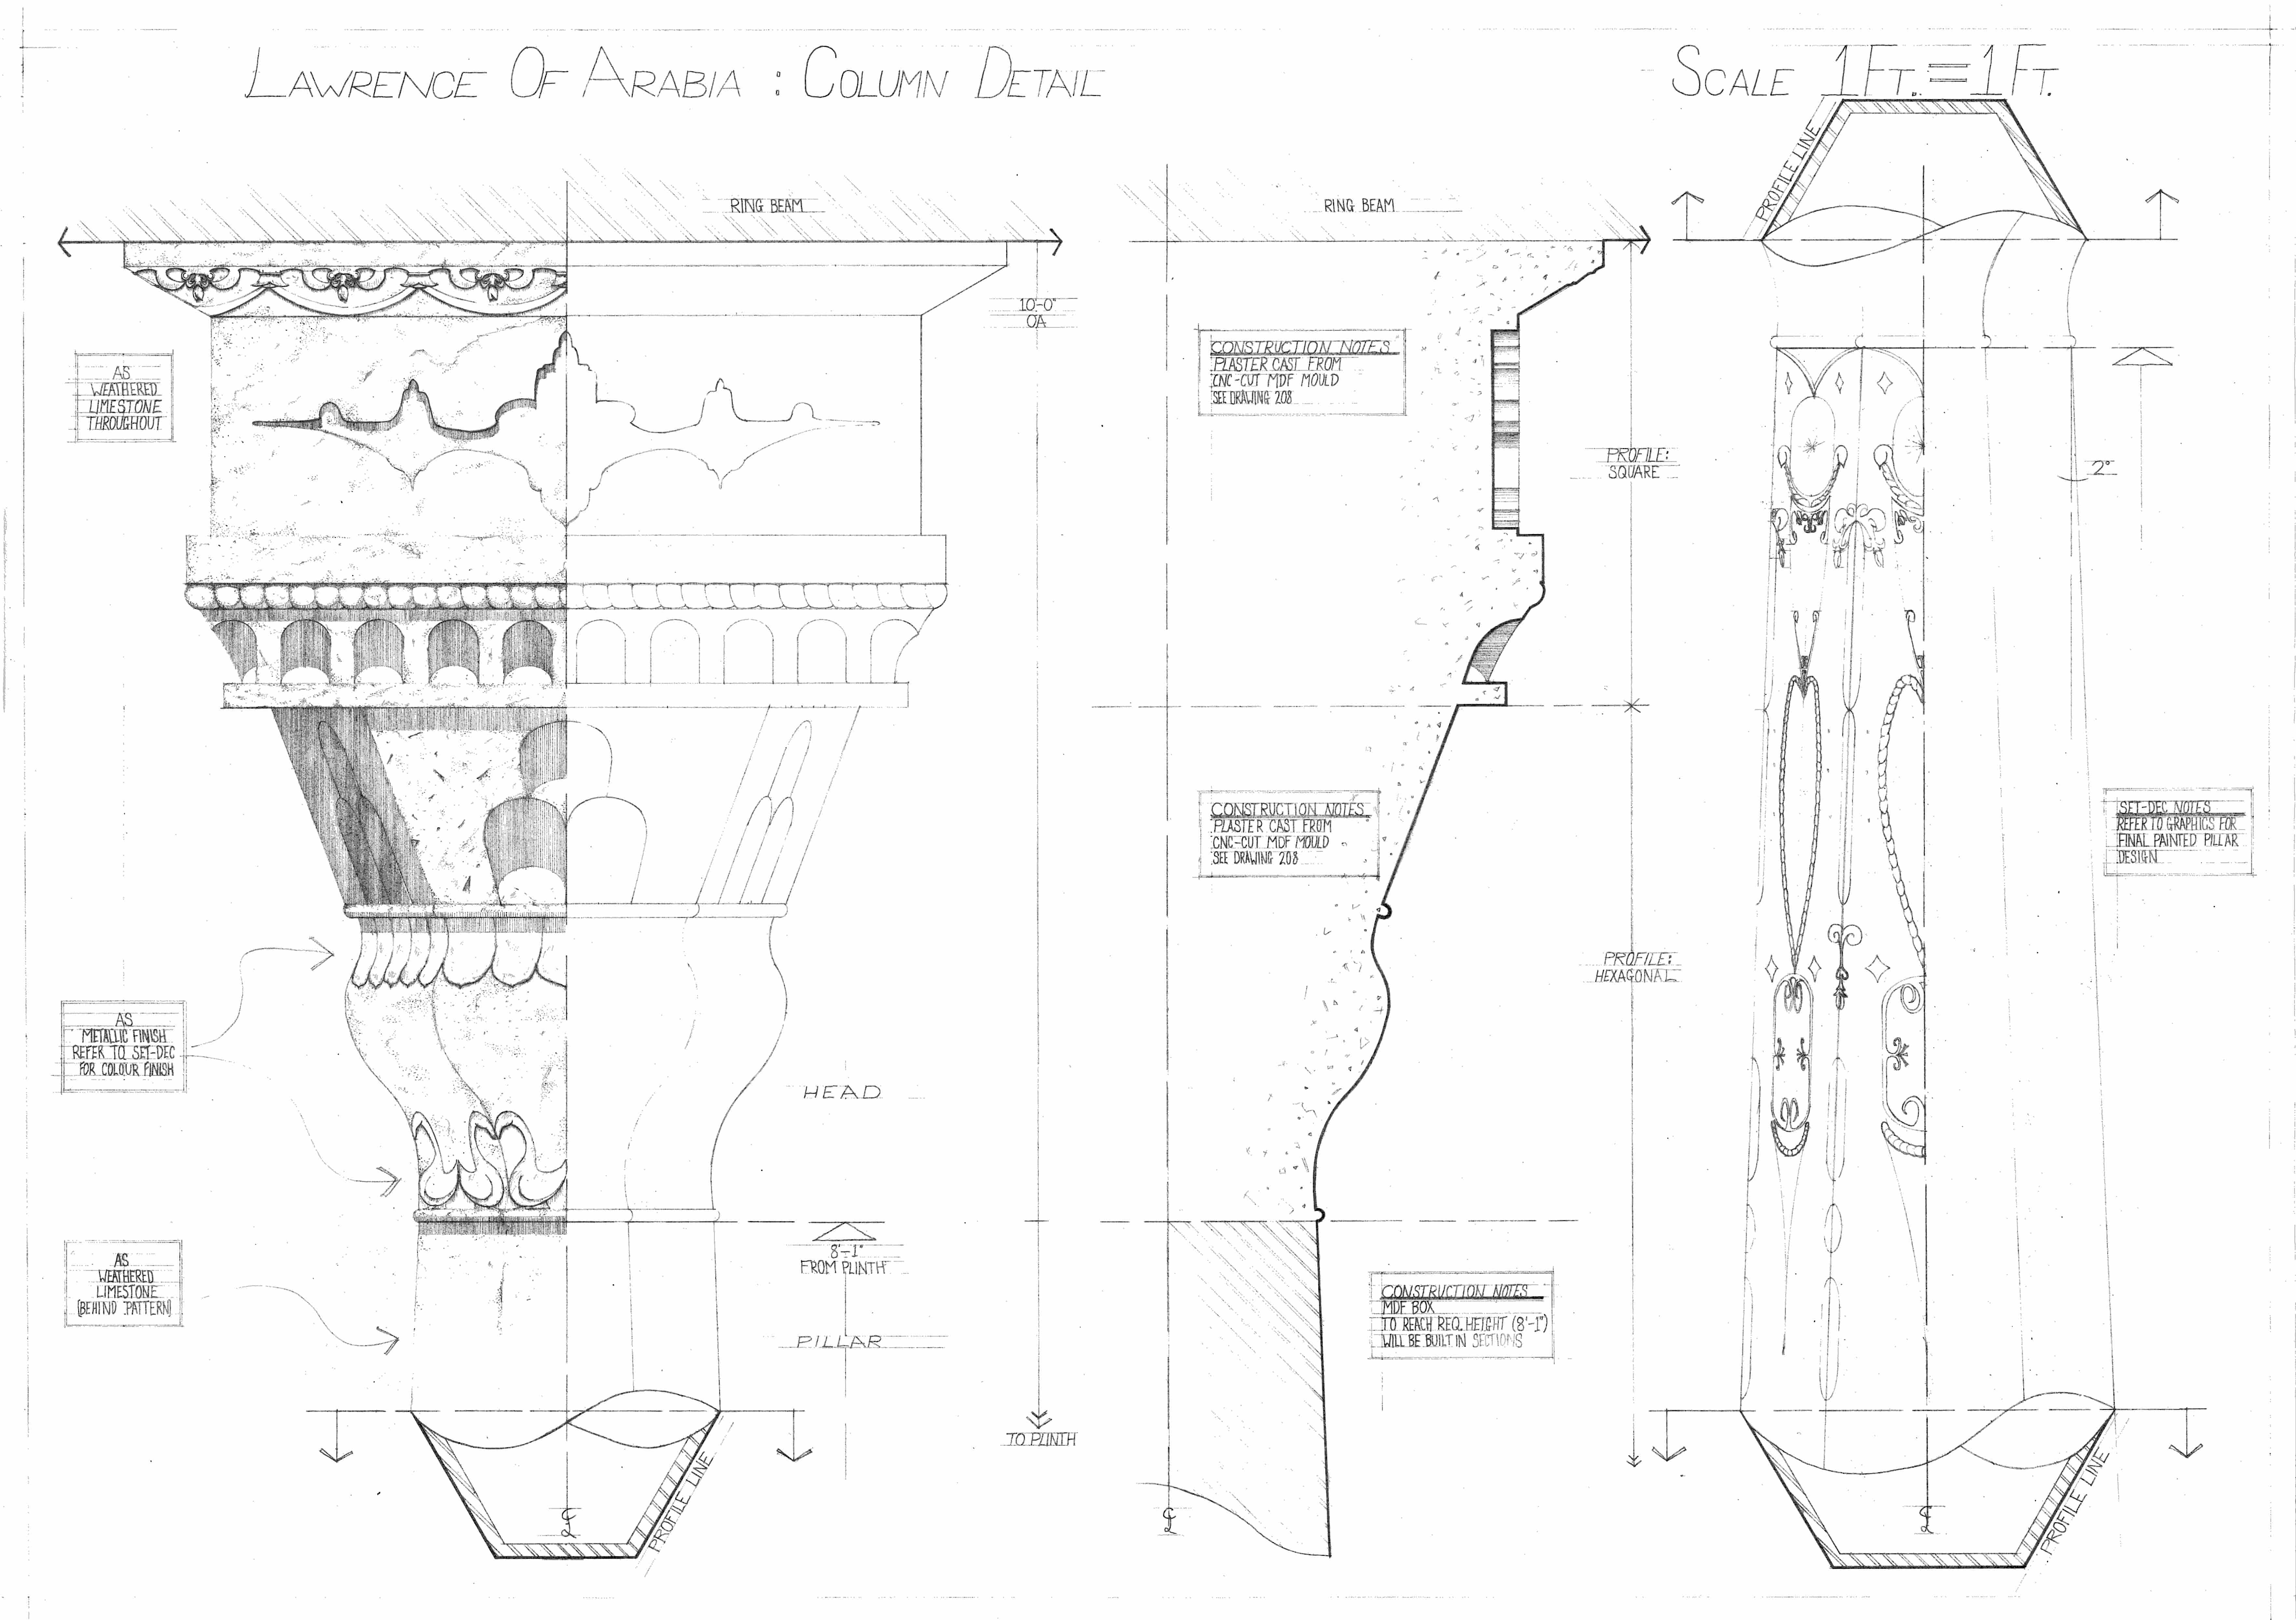
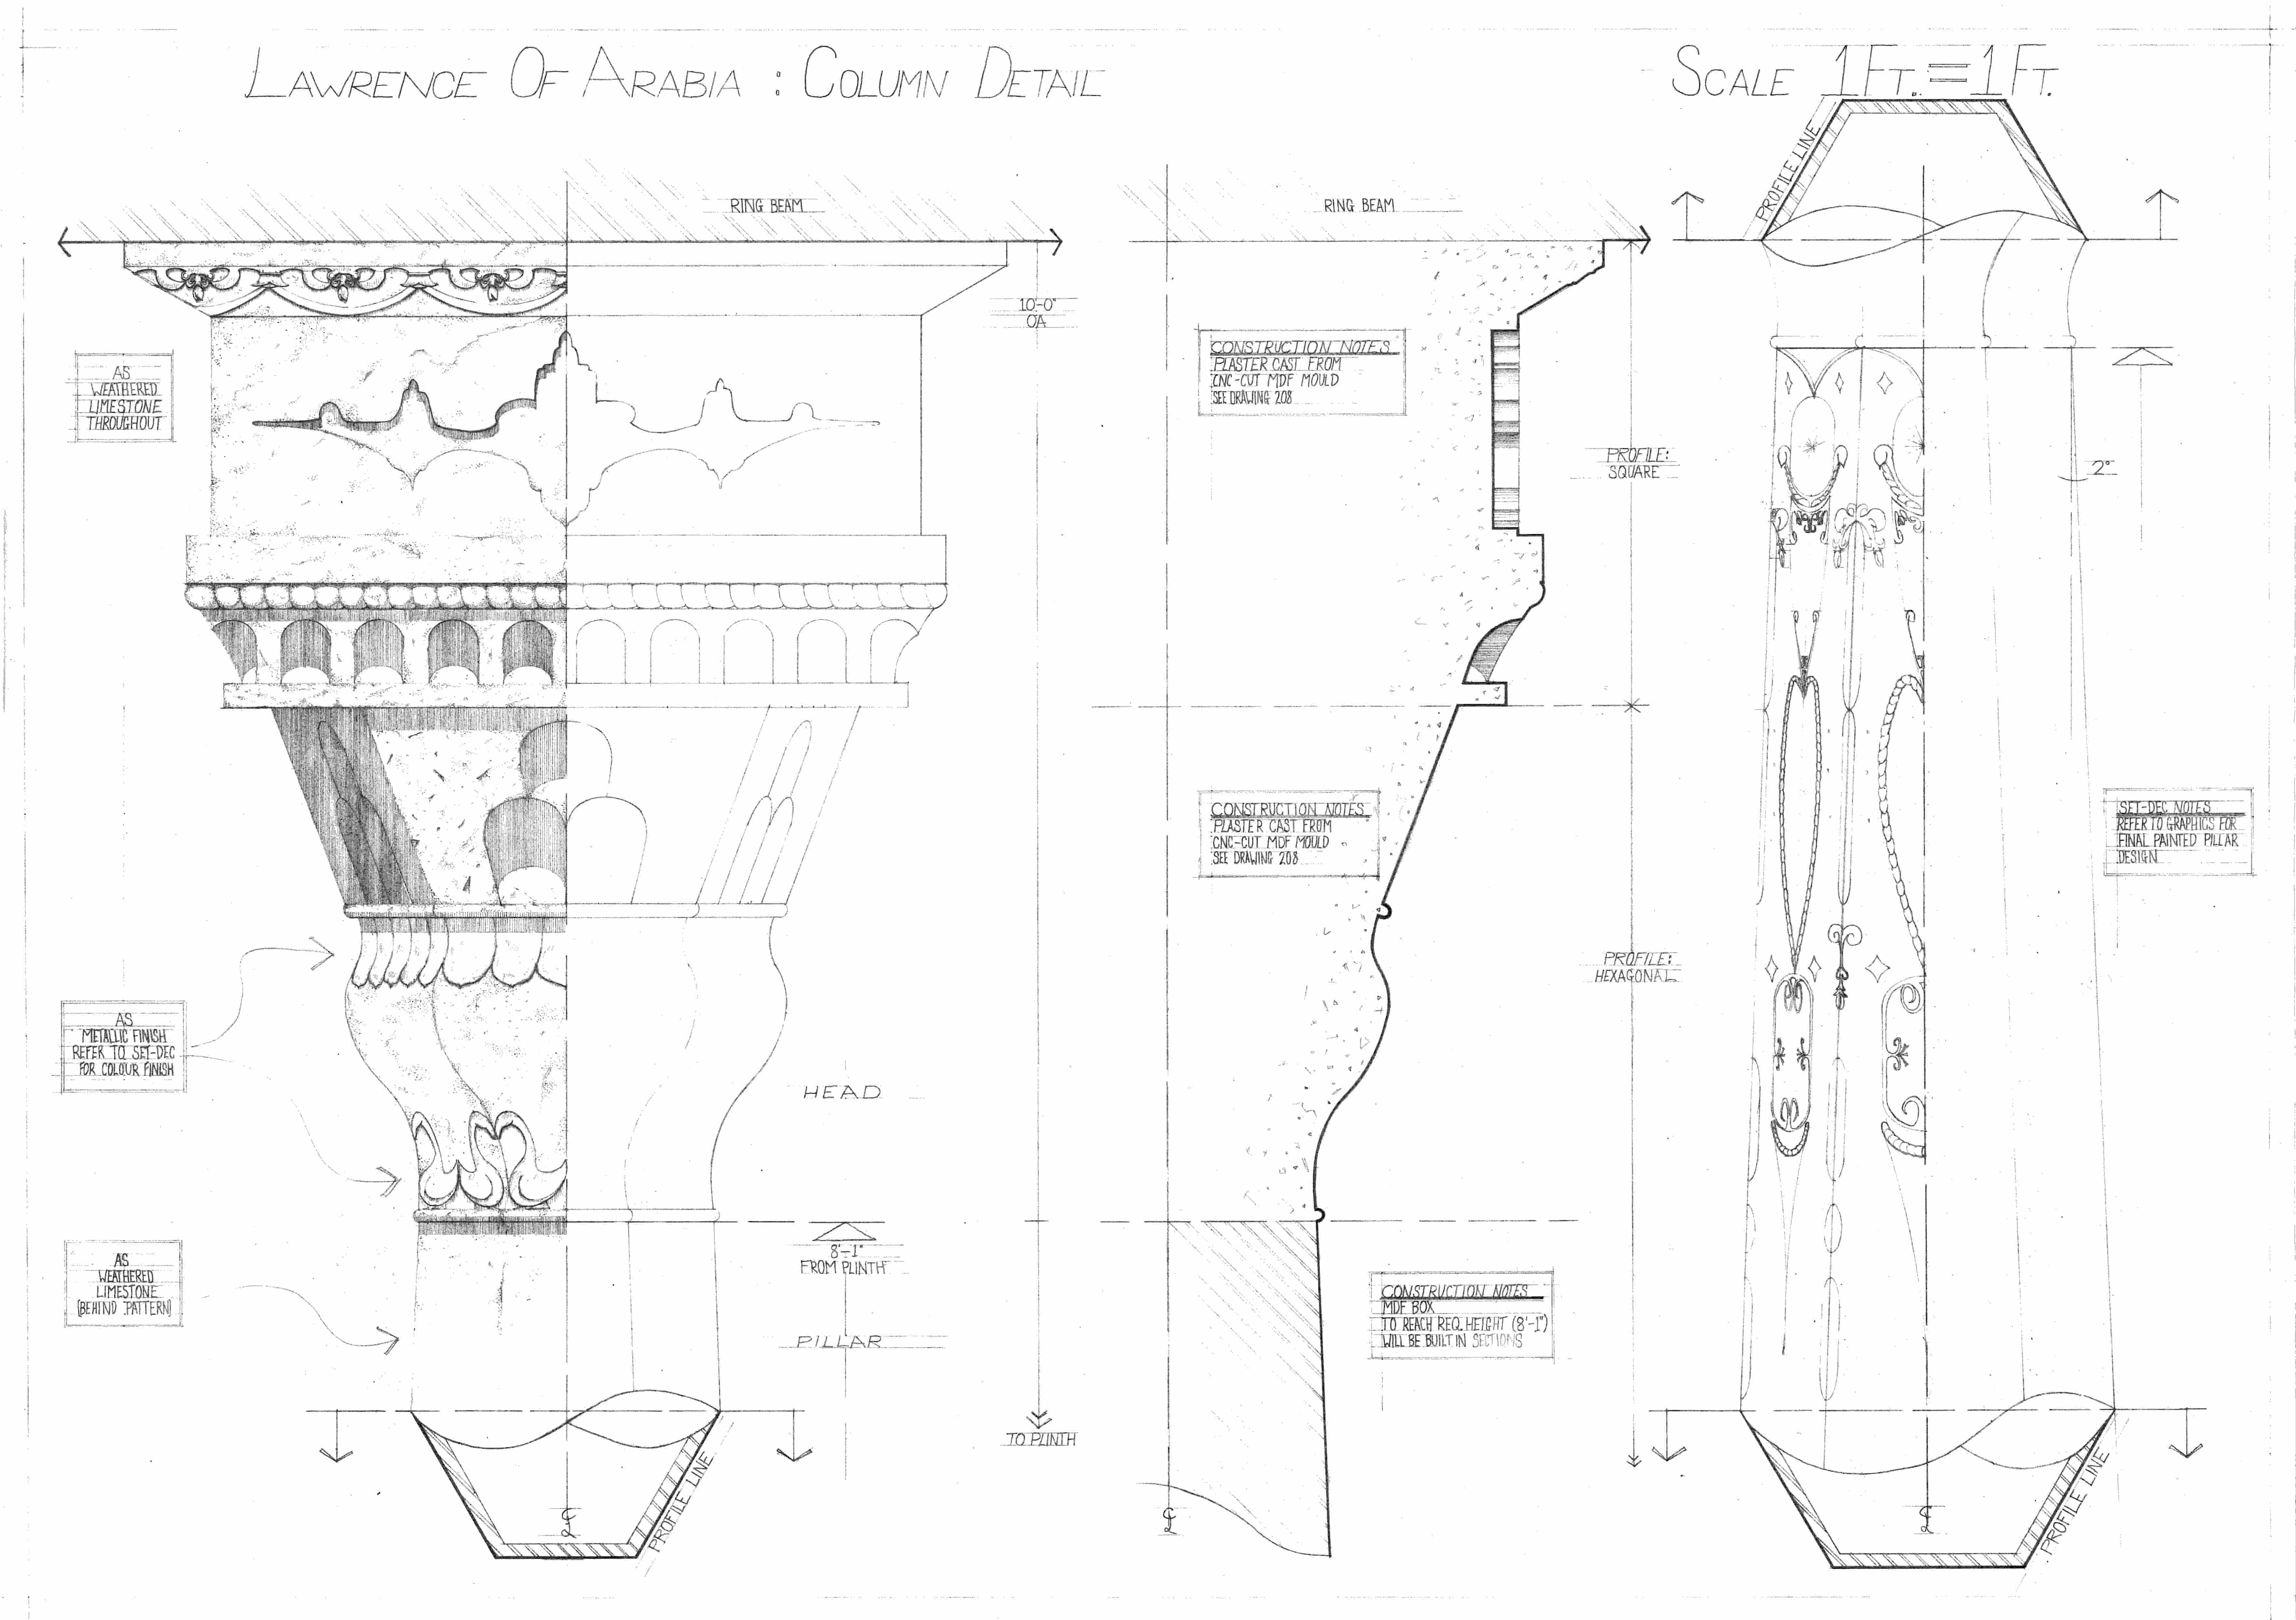
image file renames

Changed region(s): [[0.0936, 0.3739, 0.2495, 0.405], [0.1248, 0.4362, 0.156, 0.4985], [0.156, 0.5296, 0.1872, 0.5608]]

diff --git a/app/architecture/page.tsx b/app/architecture/page.tsx
@@ -285,7 +285,7 @@ const projects = [
         layout: "full",
         gap: "sm",
         images: [
-          { src: "/images/architecture/2_P1/1.jpg", caption: "Project Overview" },
+          { src: "/images/architecture/2_P1/1.JPG", caption: "Project Overview" },
         ],
       },
       {
@@ -318,16 +318,16 @@ const projects = [
         layout: "trio",
         gap: "sm",
         images: [
-          { src: "/images/architecture/1_P4/1.jpg", caption: "" },
-          { src: "/images/architecture/1_P4/2.jpg", caption: "" },
-          { src: "/images/architecture/1_P4/3.jpg", caption: "" },
+          { src: "/images/architecture/1_P4/1.JPG", caption: "" },
+          { src: "/images/architecture/1_P4/2.JPG", caption: "" },
+          { src: "/images/architecture/1_P4/3.JPG", caption: "" },
         ],
       },
       {
         layout: "full",
         gap: "sm",
         images: [
-          { src: "/images/architecture/1_P4/4.jpg", caption: "" },
+          { src: "/images/architecture/1_P4/4.JPG", caption: "" },
         ],
       },
     ],
@@ -355,7 +355,7 @@ export default function ArchitecturePage() {
       {/* Banner — no grey bar */}
       <div className="relative w-full overflow-hidden" style={{ height: "60vh" }}>
         <ParallaxImage
-          src="/images/architecture/header.jpg"
+          src="/images/architecture/hoppers-hut/10.jpg"
           alt="Architecture"
           className="w-full h-full"
           priority

diff --git a/app/art-direction/page.tsx b/app/art-direction/page.tsx
@@ -126,7 +126,7 @@ const projects = [
         layout: "full",
         gap: "sm",
         images: [
-          { src: "/images/art-direction/american-dream/6.jpg", caption: "Door Detail" },
+          { src: "/images/art-direction/american-dream/6.png", caption: "Door Detail" },
         ],
       },
     ],
@@ -172,8 +172,8 @@ const projects = [
         layout: "pair",
         gap: "sm",
         images: [
-          { src: "/images/art-direction/hoppers-hut/1.jpg", caption: "Existing Exterior" },
-          { src: "/images/art-direction/hoppers-hut/2.jpg", caption: "Existing Interior" },
+          { src: "/images/art-direction/hoppers-hut/1.JPG", caption: "Existing Exterior" },
+          { src: "/images/art-direction/hoppers-hut/2.JPG", caption: "Existing Interior" },
         ],
       },
       {

diff --git a/app/photography/page.tsx b/app/photography/page.tsx
@@ -27,7 +27,7 @@ const photos = [
     caption: "St Ives, UK, 2024",
   },
   {
-    src: "/images/photography/d.jpg",
+    src: "/images/photography/d.JPG",
     caption: "Seven Sisters, UK, 2023",
   },
   {
@@ -95,7 +95,7 @@ const photos = [
     caption: "Hakone, Japan, 2025",
   },
   {
-    src: "/images/photography/u.jpg",
+    src: "/images/photography/u.JPG",
     caption: "Staplehurst, Uk 2023",
   },
   {